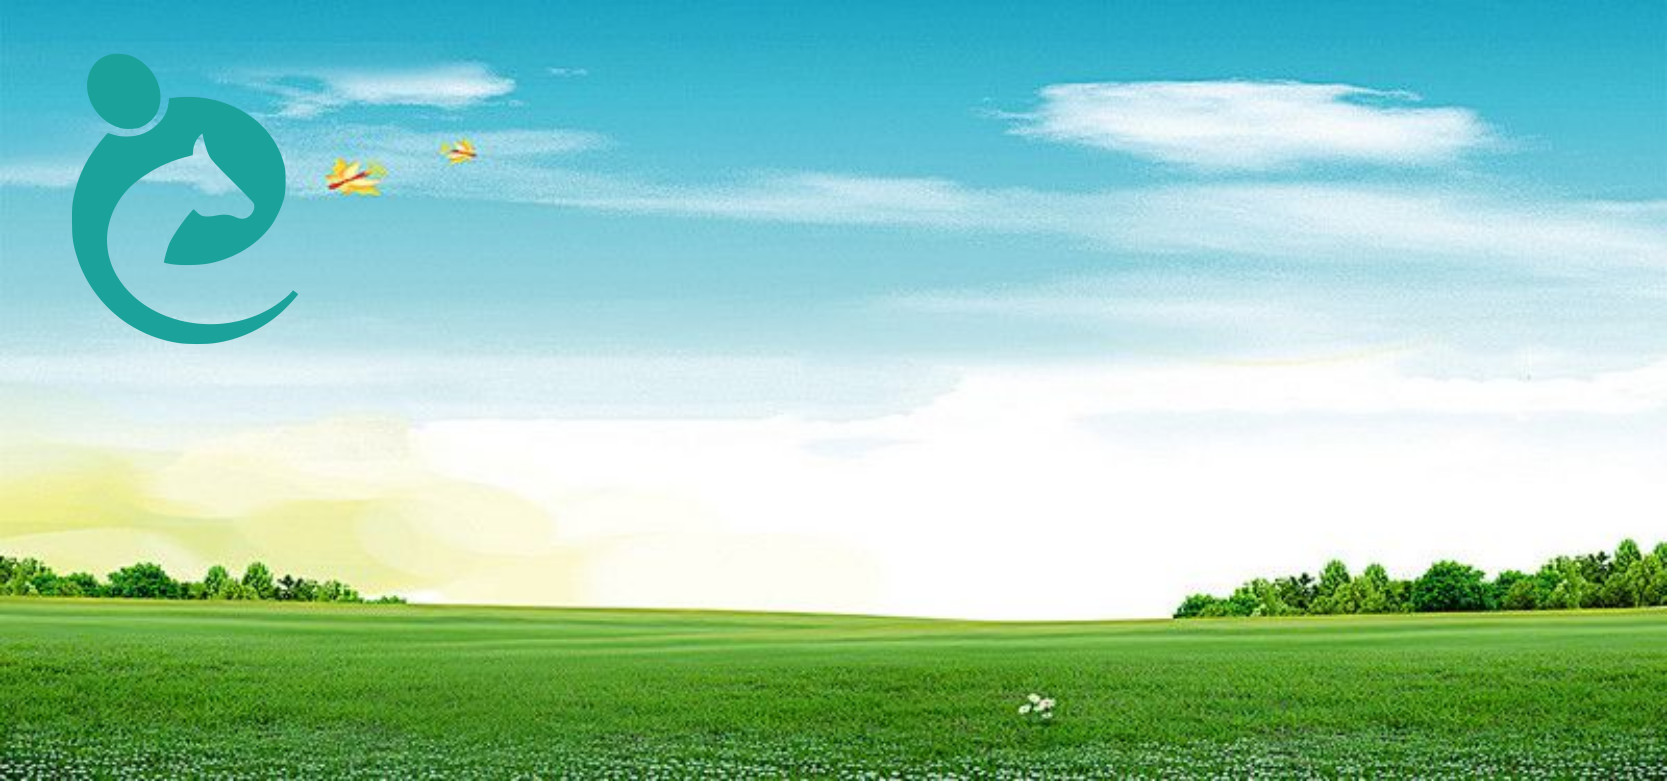
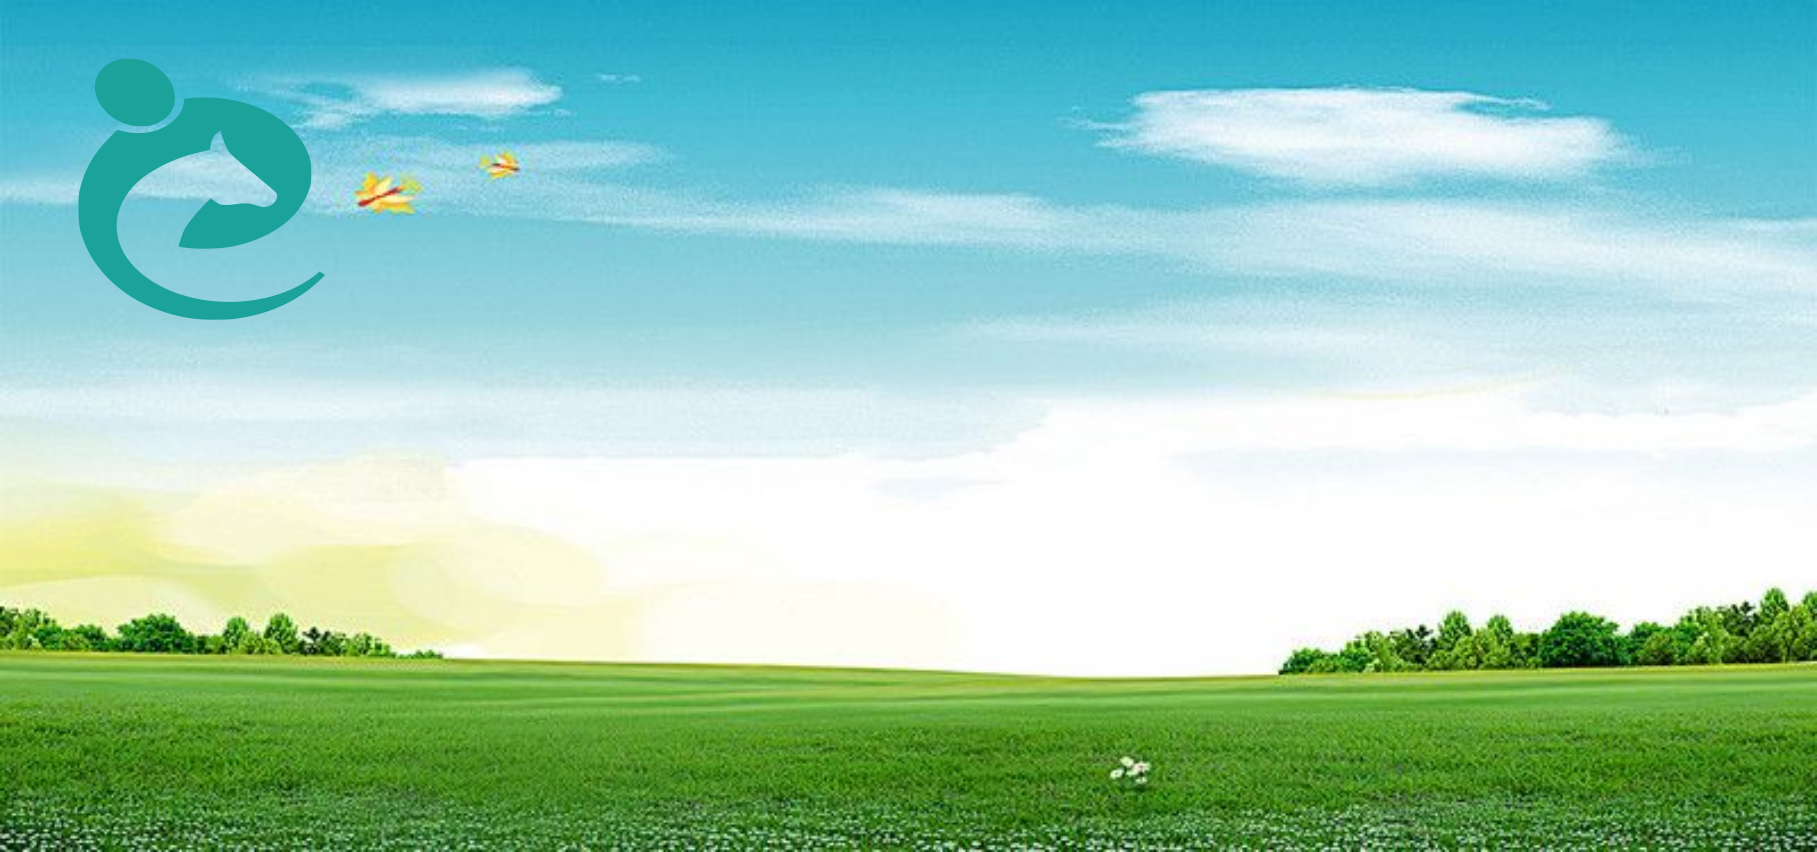
first commit

Changed region(s): [[0.0312, 0.0922, 0.1872, 0.4609], [0.156, 0.1536, 0.1872, 0.1844]]

diff --git a/index.html b/index.html
@@ -267,22 +267,22 @@
                </div>
                <div class="col-md-4 col-sm-6">
                   <div class="gallery_img">
-                     <figure><img src="images/atendimento1.JPG" alt="#"/></figure>
+                     <figure><img src="images/gallery1.png" alt="#"/></figure>
                   </div>
                </div>
                <div class="col-md-4 col-sm-6">
                   <div class="gallery_img">
-                     <figure><img src="images/atendimento2.JPG" alt="#"/></figure>
+                     <figure><img src="images/gallery2.png" alt="#"/></figure>
                   </div>
                </div>
                <div class="col-md-4 col-sm-6">
                   <div class="gallery_img">
-                     <figure><img src="images/gallery3.jpg" alt="#"/></figure>
+                     <figure><img src="images/gallery3.png" alt="#"/></figure>
                   </div>
                </div>
                <div class="col-md-4 col-sm-6">
                   <div class="gallery_img">
-                     <figure><img src="images/gallery4.jpg" alt="#"/></figure>
+                     <figure><img src="images/gallery4.png" alt="#"/></figure>
                   </div>
                </div>
                <div class="col-md-4 col-sm-6">
@@ -311,12 +311,12 @@
                </div>
                <div class="col-md-4 col-sm-6">
                   <div class="gallery_img">
-                     <figure><img src="images/gallery5.jpg" alt="#"/></figure>
+                     <figure><img src="images/gallery5.png" alt="#"/></figure>
                   </div>
                </div>
                <div class="col-md-4 col-sm-6">
                   <div class="gallery_img">
-                     <figure><img src="images/gallery6.jpg" alt="#"/></figure>
+                     <figure><img src="images/gallery6.png" alt="#"/></figure>
                   </div>
                </div>
             </div>
@@ -403,14 +403,16 @@
                </div>
                <div class="col-md-7 pad_roght0">
                   <div class="design_img">
-                     <figure><img src="images/desi.jpg" alt="#"/></figure>
+                     <figure><img src="images/desi.png" alt="#"/></figure>
                   </div>
                </div>
             </div>
          </div>
       </div>
       <!-- end design -->
-      <!-- Colaboradores -->
+
+<!--  
+       Colaboradores
       <div  class="latest_news">
          <div class="container">
             <div class="row">
@@ -462,6 +464,8 @@
          </div>
       </div>
       <!-- end latest news -->
+
+   -->
       <!-- Depoimentos -->
       <div id="testimonial" class="Testimonial">
          <div class="container-fluid">

diff --git a/css/style.css b/css/style.css
@@ -304,7 +304,7 @@ button {
 
 .banner {
      position: relative;
-     background: url(../images/g925.jpg);
+     background: url(../images/g925.png);
      background-size: 100% 100%;
      background-position: center;
      background-repeat: no-repeat;
@@ -325,8 +325,8 @@ button {
 }
 
 .text-bg h1 {
-     color: #000;
-     font-size: 85px;
+     color: 0a5546ff;
+     font-size: 60px;
      line-height: 96px;
      padding-bottom: 0px;
      font-weight: bold;
@@ -335,7 +335,7 @@ button {
 .text-bg span {
      line-height: 25px;
      padding-bottom: 40px;
-     color: #fff;
+     color: #0a5546ff;
      font-size: 17px;
      font-weight: bold;
      display: block;
@@ -345,8 +345,8 @@ button {
      max-width: 243px;
      height: 66px;
      padding: 17px 0;
-     background-color: #fff;
-     color: #000;
+     background-color: #0a5546ff;;
+     color: #fff;
      text-transform: uppercase;
      font-weight: bold;
      border-radius: 50px;
@@ -888,7 +888,7 @@ button {
 /** contact section **/
 
 .contact {
-     background: url(../images/conatct.jpg);
+     background: url(../images/conatct.png);
      background-size: 100% 100%;
      background-repeat: no-repeat;
      background-position: center;
